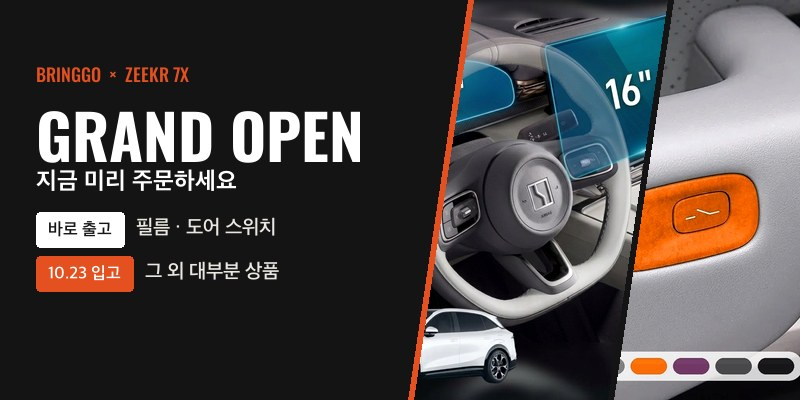
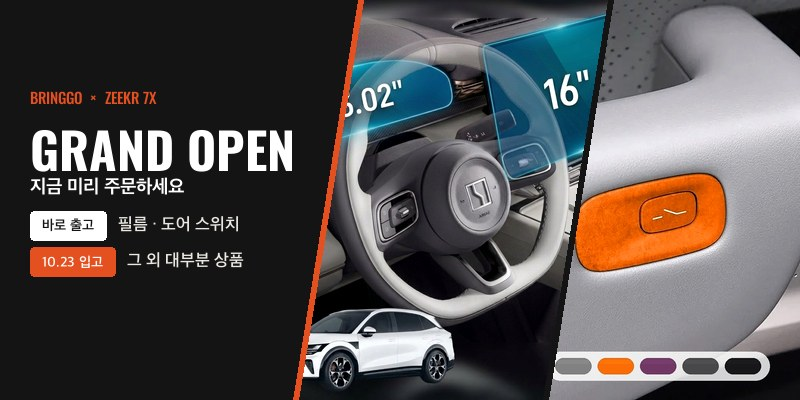
오픈 배너 모바일: 글자 영역 줄이고 상품 사진 두 칸 확대

diff --git a/shop/index.html b/shop/index.html
@@ -13,18 +13,18 @@ if (/github\.io$/.test(location.hostname)) location.replace('https://bringgo.pag
 <meta property="og:title" content="bringgo for ZEEKR 7X">
 <meta property="og:description" content="지커 7X 실내 액세서리 딜러 전용 주문">
 <meta property="og:url" content="https://bringgo.pages.dev/shop/">
-<meta property="og:image" content="https://bringgo.pages.dev/shop/img/brand/og.jpg?v=10192024">
+<meta property="og:image" content="https://bringgo.pages.dev/shop/img/brand/og.jpg?v=10192029">
 <meta property="og:image:width" content="1200">
 <meta property="og:image:height" content="630">
 <meta name="twitter:card" content="summary_large_image">
-<meta name="twitter:image" content="https://bringgo.pages.dev/shop/img/brand/og.jpg?v=10192024">
+<meta name="twitter:image" content="https://bringgo.pages.dev/shop/img/brand/og.jpg?v=10192029">
 <link rel="icon" type="image/png" sizes="32x32" href="img/brand/favicon-32.png">
 <link rel="icon" type="image/png" sizes="64x64" href="img/brand/favicon-64.png">
 <link rel="apple-touch-icon" href="img/brand/apple-touch-icon.png">
 <meta name="theme-color" content="#f3f1ec">
 <link rel="stylesheet" href="https://cdn.jsdelivr.net/npm/pretendard@1.3.9/dist/web/variable/pretendardvariable-dynamic-subset.min.css">
 <link rel="stylesheet" href="https://fonts.googleapis.com/css2?family=Oswald:wght@500;600&display=swap">
-<link rel="stylesheet" href="shop.css?v=10192024">
+<link rel="stylesheet" href="shop.css?v=10192029">
 </head>
 <body>
 <header>
@@ -39,8 +39,8 @@ if (/github\.io$/.test(location.hostname)) location.replace('https://bringgo.pag
 
 <script src="https://cdn.jsdelivr.net/npm/@supabase/supabase-js@2"></script>
 <script src="https://t1.daumcdn.net/mapjsapi/bundle/postcode/prod/postcode.v2.js"></script>
-<script src="config.js?v=10192024"></script>
-<script src="common.js?v=10192024"></script>
-<script src="shop.js?v=10192024"></script>
+<script src="config.js?v=10192029"></script>
+<script src="common.js?v=10192029"></script>
+<script src="shop.js?v=10192029"></script>
 </body>
 </html>

diff --git a/shop/admin.html b/shop/admin.html
@@ -13,8 +13,8 @@ if (/github\.io$/.test(location.hostname)) location.replace('https://bringgo.pag
 <meta name="theme-color" content="#f3f1ec">
 <link rel="stylesheet" href="https://cdn.jsdelivr.net/npm/pretendard@1.3.9/dist/web/variable/pretendardvariable-dynamic-subset.min.css">
 <link rel="stylesheet" href="https://fonts.googleapis.com/css2?family=Oswald:wght@500;600&display=swap">
-<link rel="stylesheet" href="shop.css?v=10192024">
-<link rel="stylesheet" href="admin.css?v=10192024">
+<link rel="stylesheet" href="shop.css?v=10192029">
+<link rel="stylesheet" href="admin.css?v=10192029">
 </head>
 <body>
 <header>
@@ -27,8 +27,8 @@ if (/github\.io$/.test(location.hostname)) location.replace('https://bringgo.pag
 <div id="toast"></div>
 
 <script src="https://cdn.jsdelivr.net/npm/@supabase/supabase-js@2"></script>
-<script src="config.js?v=10192024"></script>
-<script src="common.js?v=10192024"></script>
-<script src="admin.js?v=10192024"></script>
+<script src="config.js?v=10192029"></script>
+<script src="common.js?v=10192029"></script>
+<script src="admin.js?v=10192029"></script>
 </body>
 </html>

diff --git a/shop/config.js b/shop/config.js
@@ -8,6 +8,6 @@ window.SHEET_URL = 'https://docs.google.com/spreadsheets/d/19crq_-szVqdJRlVK12RK
 window.KAKAO_CHANNEL_URL = 'https://pf.kakao.com/_vtvxiX/chat';
 
 // 상품 사진 버전 (사진을 교체하면 숫자를 올려 주세요)
-window.ASSET_V = '10192024';
+window.ASSET_V = '10192029';
 // 토스페이먼츠 클라이언트 키 (공개용 · test_ck_… 또는 live_ck_…). 비어 있으면 카드결제 숨김. 시크릿 키는 절대 여기 넣지 말 것 → Supabase Edge Function Secrets
 window.TOSS_CLIENT_KEY = '';
